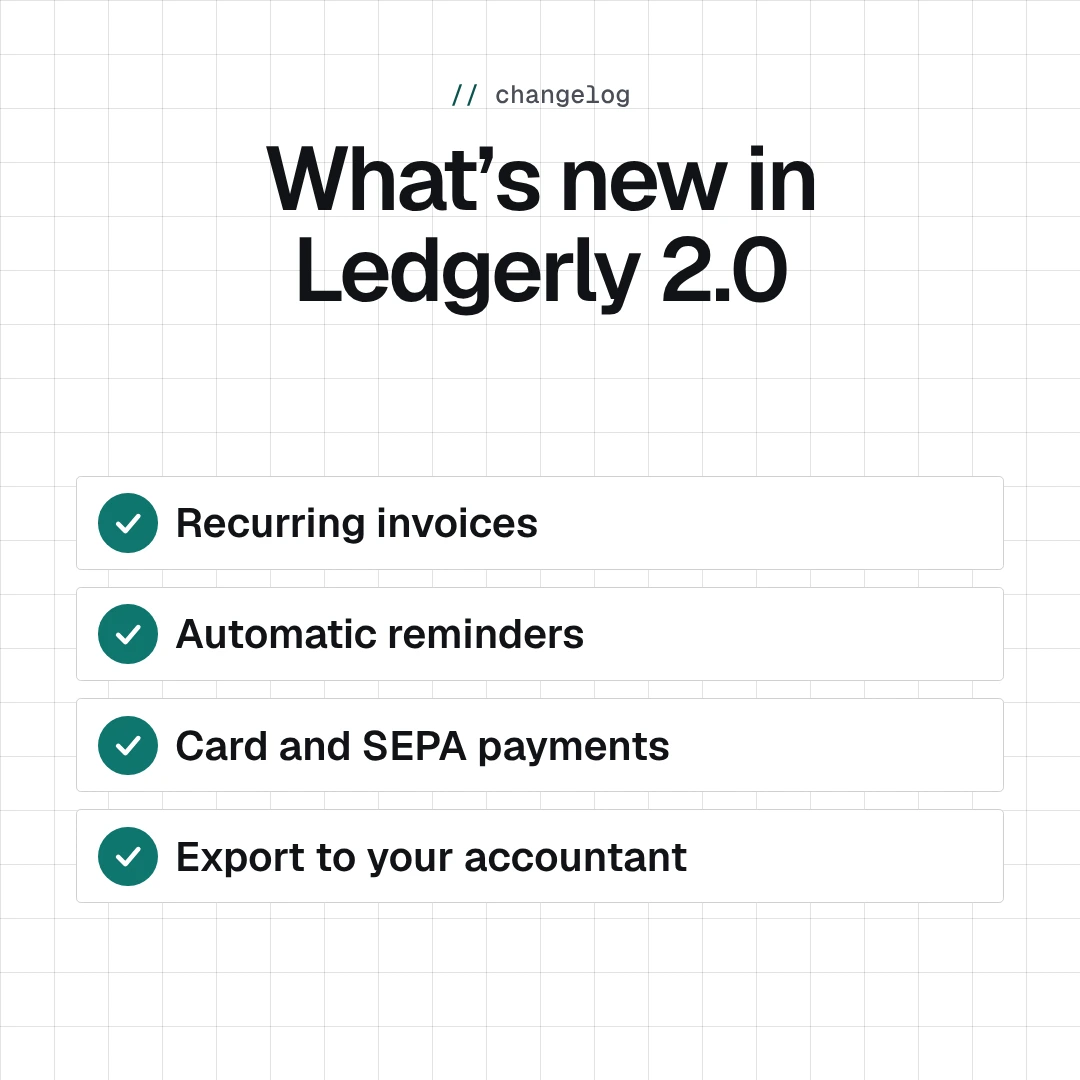
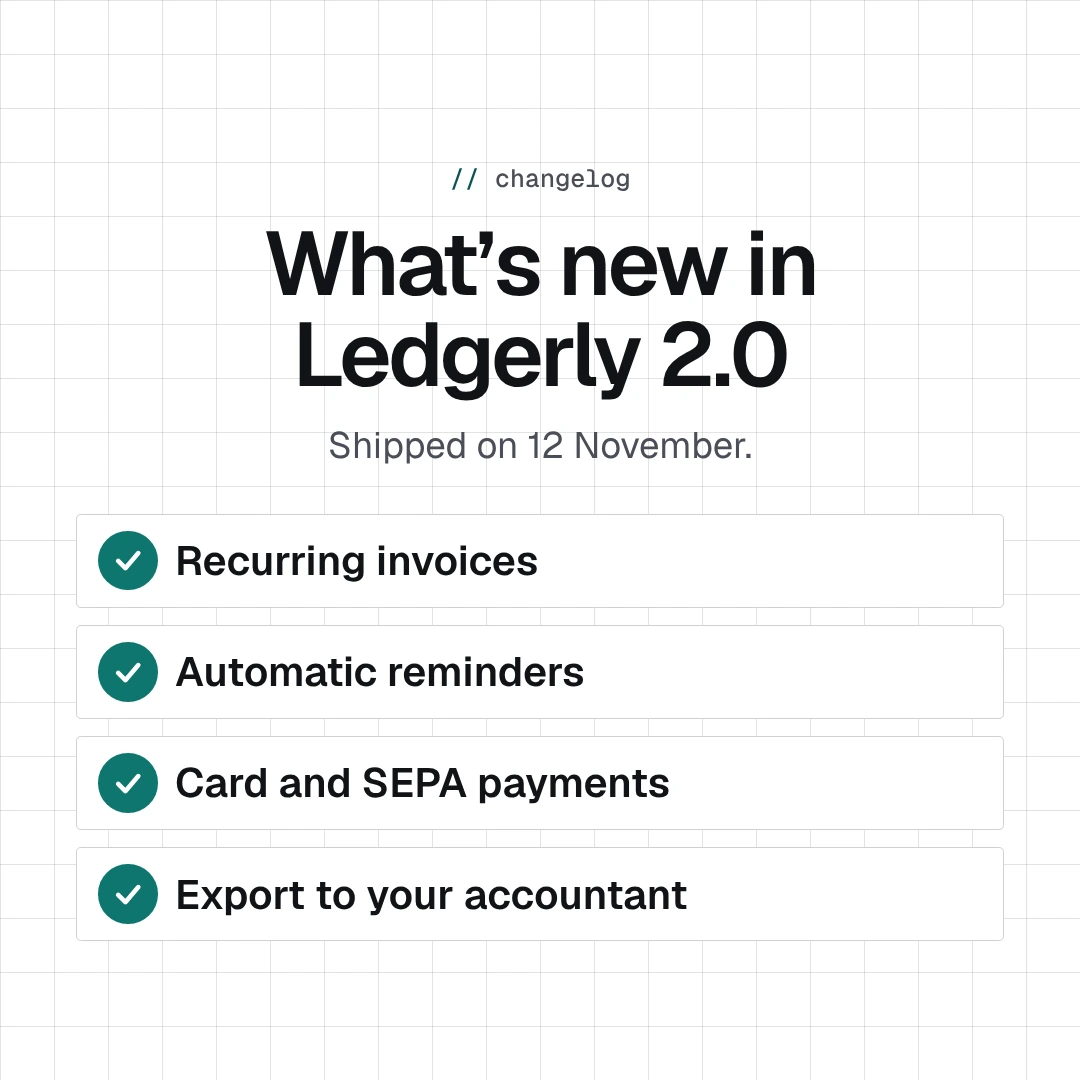
App Store keeps phone screens in a phone; stacked text stays with its content
- App Store: a phone screenshot is drawn in a phone whatever the format
  (it was stretched into a tablet in LinkedIn 4:5 and other near-square
  formats). Other screenshots still get the device the format calls for.
- Features, Steps, Key Figures and Comparison in square and portrait: the
  title, subtitle and content form one block centred on the canvas, so no
  gap opens under the title; square formats now show the subtitle too, and
  Steps centres its list under the centred title.
- Phone and tablet frames carry data-device, for tests.
- The Features example on the dashboard is recaptured with the new layout.

Claude-Session: https://claude.ai/code/session_012rmBgmtAEimEFsA8WNUNZn

diff --git a/apps/web/src/render/Composition.tsx b/apps/web/src/render/Composition.tsx
@@ -851,7 +851,7 @@ function PhoneFrame({
     ? { left: width * 0.035, top: '50%', width: width * 0.075, height: width * 0.3, marginTop: -width * 0.15 }
     : { top: width * 0.035, left: '50%', width: width * 0.3, height: width * 0.075, marginLeft: -width * 0.15 };
   return (
-    <div
+    <div data-device="mobile"
       style={{
         ...style,
         borderRadius: width * 0.16,
@@ -885,7 +885,7 @@ function TabletFrame({
   const bezel = width * 0.04;
   const camera: CSSProperties = landscape ? { left: bezel / 2, top: '50%' } : { top: bezel / 2, left: '50%' };
   return (
-    <div
+    <div data-device="tablet"
       style={{
         ...style,
         borderRadius: width * 0.07,
@@ -1641,17 +1641,21 @@ function AppStore(ctx: Ctx) {
       style={{ position: 'absolute', left: w * 0.08, right: w * 0.08, top: h * (r < 0.95 ? 0.06 : 0.07) }}
     />
   );
+  // The format picks the device: tall canvases get a phone, near-square ones a tablet, wide ones a
+  // window. A phone screen always stays in a phone, whatever the format (never stretched into a tablet).
+  const shot = shotRatio(ctx, ctx.shots[0], 0);
+  const kind: DeviceKind = (shot > 0 && shot < 0.65) || r < 0.6 ? 'mobile' : r < 0.95 ? 'tablet' : 'desktop';
+  // Where the device starts: under the caption, which takes more of the height on squarer canvases.
+  const top = h * (r < 0.6 ? 0.33 : r < 0.95 ? 0.41 : r > 1.15 ? 0.47 : 0.53);
   let device: ReactNode;
-  if (r < 0.6) {
-    const pw = w * 0.74;
-    device = <PhoneFrame ctx={ctx} index={0} width={pw} style={abs((w - pw) / 2, h * 0.33, pw, pw / DEVICE_RATIO.mobile)} />;
-  } else if (r < 0.95) {
-    const tw = w * 0.84;
-    device = <TabletFrame ctx={ctx} index={0} width={tw} style={abs((w - tw) / 2, h * 0.41, tw, tw / DEVICE_RATIO.tablet)} />;
+  if (kind === 'mobile') {
+    const pw = w * (r < 0.6 ? 0.74 : r < 0.95 ? 0.6 : r <= 1.15 ? 0.5 : 0.3);
+    device = <PhoneFrame ctx={ctx} index={0} width={pw} style={abs((w - pw) / 2, top, pw, pw / DEVICE_RATIO.mobile)} />;
+  } else if (kind === 'tablet') {
+    const tw = w * (r < 0.95 ? 0.84 : r <= 1.15 ? 0.7 : 0.5);
+    device = <TabletFrame ctx={ctx} index={0} width={tw} style={abs((w - tw) / 2, top, tw, tw / DEVICE_RATIO.tablet)} />;
   } else {
-    // The caption takes more of the height on square canvases, so the window starts lower there.
     const dw = w * (r > 1.15 ? 0.8 : 0.86);
-    const top = h * (r > 1.15 ? 0.47 : 0.53);
     device = <BrowserFrame ctx={ctx} index={0} style={abs((w - dw) / 2, top, dw, dw * 0.625)} />;
   }
   return (
@@ -2021,7 +2025,13 @@ function Features(ctx: Ctx) {
  * Text above a content-sized block (list, table) in square and portrait formats. One flex column,
  * so a long title pushes the block down instead of running into it; Text position Bottom reverses it.
  */
-function stackText(ctx: Ctx, body: ReactNode, textScale = 1) {
+/**
+ * Square and portrait: the text above the content (below it when flipped), the two kept together and
+ * centred on the canvas, so no gap opens between the title and what it introduces. `fit` narrows the
+ * content to its own width and centres it (a short list under a centred title); otherwise it spans the
+ * width (cards, tables).
+ */
+function stackText(ctx: Ctx, body: ReactNode, textScale = 1, fit = false) {
   const { w, h, u, o } = ctx;
   const portrait = o === 'portrait';
   return (
@@ -2034,16 +2044,28 @@ function stackText(ctx: Ctx, body: ReactNode, textScale = 1) {
         bottom: h * (portrait ? 0.1 : 0.05),
         display: 'flex',
         flexDirection: ctx.flipY ? 'column-reverse' : 'column',
-        gap: u * (portrait ? 5 : 3.5),
+        justifyContent: 'center',
+        gap: u * (portrait ? 5 : 4),
       }}
     >
-      <TextBlock ctx={ctx} align="center" style={{ flex: 'none' }} subtitle={portrait} scale={textScale} />
-      <div style={{ flex: '1 1 0', minHeight: 0, display: 'flex', flexDirection: 'column', justifyContent: 'center' }}>{body}</div>
+      <TextBlock ctx={ctx} align="center" style={{ flex: 'none' }} subtitle={portrait || o === 'square'} scale={textScale} />
+      <div
+        style={{
+          flex: '0 1 auto',
+          minHeight: 0,
+          display: 'flex',
+          flexDirection: 'column',
+          justifyContent: 'center',
+          ...(fit && { width: 'fit-content', maxWidth: '100%', alignSelf: 'center' }),
+        }}
+      >
+        {body}
+      </div>
     </div>
   );
 }
 
-function placeBeside(ctx: Ctx, body: ReactNode, textScale = 1) {
+function placeBeside(ctx: Ctx, body: ReactNode, textScale = 1, fit = false) {
   const { w, h, o, wide } = ctx;
   const box = (style: CSSProperties) => (
     <div style={{ position: 'absolute', display: 'flex', flexDirection: 'column', justifyContent: 'center', ...style }}>{body}</div>
@@ -2064,7 +2086,7 @@ function placeBeside(ctx: Ctx, body: ReactNode, textScale = 1) {
       </>
     );
   }
-  return stackText(ctx, body, textScale);
+  return stackText(ctx, body, textScale, fit);
 }
 
 /** Brand-coloured disc (black on Bold's brand ground). */
@@ -2112,6 +2134,8 @@ function Steps(ctx: Ctx) {
     <div data-steps="" style={{ display: 'grid', gridTemplateColumns: row ? `repeat(${Math.max(1, items.length)}, minmax(0, 1fr))` : '1fr', gap: size * (row ? 1.4 : 1.15) }}>
       {items.map(step)}
     </div>,
+    1,
+    true,
   );
 }
 

diff --git a/e2e/templates.spec.ts b/e2e/templates.spec.ts
@@ -353,3 +353,28 @@ test('portrait formats show the whole screenshot width, right under the text', a
   // (light ground: high green, unlike the cyan or magenta halves).
   expect((await probePng(page, story, [0.5, 0.92])).rgb[1]).toBeGreaterThan(200);
 });
+
+test('App Store keeps a phone screen in a phone, even in LinkedIn 4:5', async ({ page }) => {
+  await newProject(page);
+  await addScreenshot(page, 'panel-tall.png');
+  await useTemplate(page, 'App Store');
+  await page.getByRole('button', { name: 'Preview LinkedIn 4:5' }).click();
+  const canvas = page.getByTestId('canvas');
+  await expect(canvas.locator('[data-device="mobile"]')).toHaveCount(1);
+  await expect(canvas.locator('[data-device="tablet"]')).toHaveCount(0);
+});
+
+test('Steps in a square keeps the title right above the steps, with its subtitle', async ({ page }) => {
+  await newProject(page);
+  await useTemplate(page, 'Steps');
+  await page.getByRole('textbox', { name: 'Subtitle', exact: true }).fill('How it works.');
+  await page.getByRole('button', { name: 'Preview Square 1:1' }).click();
+  const canvas = page.getByTestId('canvas');
+  await expect(canvas).toContainText('How it works.');
+  const text = (await canvas.getByText('How it works.').boundingBox())!;
+  const steps = (await canvas.locator('[data-steps]').boundingBox())!;
+  const stage = (await canvas.locator('[role=img]').first().boundingBox())!;
+  // The text block ends just above the steps: no gap wider than a tenth of the canvas.
+  expect(steps.y - (text.y + text.height)).toBeGreaterThan(0);
+  expect(steps.y - (text.y + text.height)).toBeLessThan(stage.height * 0.1);
+});

diff --git a/README.md b/README.md
@@ -121,7 +121,7 @@ New projects start in **Tint**; existing projects keep the style they were saved
 | **Call to Action** | Closing page: a button, your link and an optional QR code (encoded locally) | 0 |
 | **Minimal** | Text-only announcements | 0 |
 
-Every template adapts its layout to landscape, square, portrait and very wide (banner) formats. In portrait formats (Story, LinkedIn 4:5, carousel pages), Browser Hero, Spotlight and Detail Zoom show the whole screenshot at its own proportions, right under the text, the pair centred on the canvas.
+Every template adapts its layout to landscape, square, portrait and very wide (banner) formats. In portrait formats (Story, LinkedIn 4:5, carousel pages), Browser Hero, Spotlight and Detail Zoom show the whole screenshot at its own proportions, right under the text, the pair centred on the canvas. Features, Steps, Key Figures and Comparison keep their title and subtitle right above their content in square and portrait formats. App Store keeps a phone screenshot in a phone, whatever the format.
 
 ## Output formats
 
